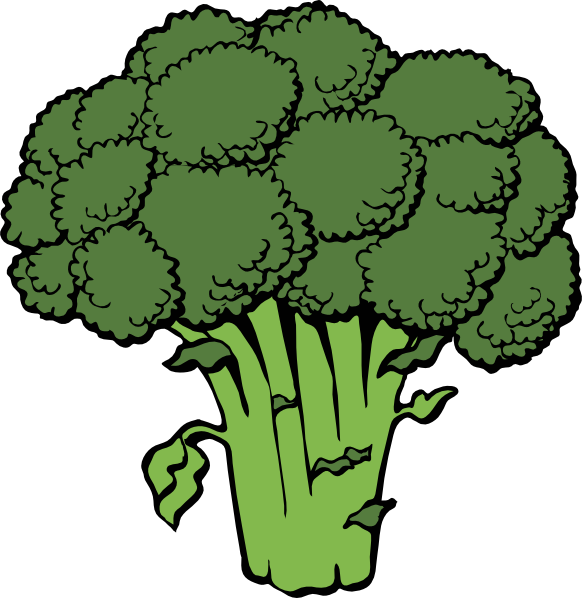
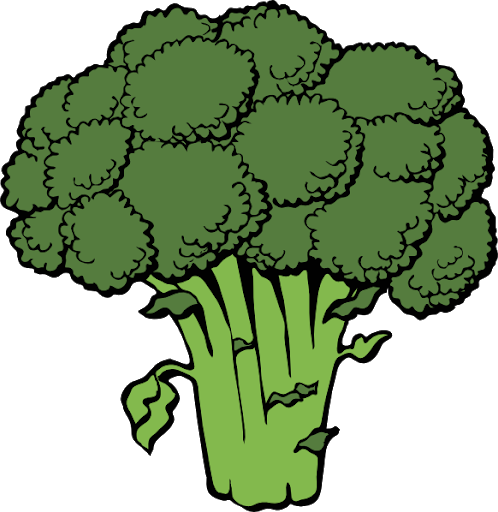
update 6 veg images complete

Changed region(s): [[0.994, 0.4062, 1.0, 0.4688], [0.753, 0.5625, 0.7831, 0.5938], [0.6325, 0.9062, 0.6627, 0.9375]]

diff --git a/main.js b/main.js
@@ -24,7 +24,10 @@ let item6 = document.getElementById('_Ginger');
 let item7 = document.getElementById('_Celery');
 let item8 = document.getElementById('_Garlic');
 let item9 = document.getElementById('_Carrot');
-let item10 = document.getElementById('_Beetroot');
+let item10 = document.getElementById('_Radish');
+let item11 = document.getElementById('_Zucchini');
+let item12 = document.getElementById('_Turnip');
+
 
 
 
@@ -55,7 +58,11 @@ let fruitImage22 = document.getElementById('Ginger');
 let fruitImage23 = document.getElementById('Celery');
 let fruitImage24 = document.getElementById('Garlic');
 let fruitImage25 = document.getElementById('Carrot');
-let fruitImage26 = document.getElementById('Beetroot');
+let fruitImage26 = document.getElementById('Radish');
+let fruitImage27 = document.getElementById('Zucchini');
+let fruitImage28 = document.getElementById('Turnip');
+
+
 
 
 let kids = document.getElementById('kids');
@@ -111,7 +118,7 @@ guessButton.onclick = function() {
 //switch function for Fruits  
 function guessFruit() { 
 
-const count = 26;
+const count = 28;
     
 let randFruit = Math.floor(Math.random() * count);    
 
@@ -1188,6 +1195,86 @@ let randFruit = Math.floor(Math.random() * count);
         } 
       }
      }
+     break;
+     case 26: 
+     groceries.src = fruitImage27.src;
+     groceries.style.width = "800px";
+     groceries.style.height = "750px";
+     groceries.style.marginBottom = "50px";
+     question.innerHTML = "..fruit or veg ?"; 
+          
+     if (currentlyPlaying && isClicked(guessButton)) {
+       guessButton.onclick = false;
+       document.getElementById('option_a');
+       guessButton.innerHTML = option_a.innerHTML;   
+        
+       if (item11.src === fruitImage27.src) {
+         guessFruit();
+        } else {  
+        option[2].onclick = function() {
+        click.play();
+        correct.play();
+        groceries.src = 'bee.gif';
+        groceries.style.marginTop = '0px';
+        guessButton.style.display = 'none';
+        nextButton.style.display = 'inline';
+        question.innerHTML = '<h3>RIGHT!!</h3>';
+        container.style.border = '180px ridge lime';
+        item11.src = fruitImage27.src;
+        gameOver();
+        } 
+        option[1].onclick = function() {
+        click.play();
+        wrong.play();
+        groceries.src = 'angry_bee.gif';
+        groceries.style.marginTop = '0px';
+        guessButton.style.display = 'none';
+        nextButton.style.display = 'inline';
+        question.innerHTML = '<h4>WRONG!!<h4>';
+        container.style.border = '180px groove #ff0000';
+        } 
+      }
+     }
+     break;
+     case 27: 
+     groceries.src = fruitImage28.src;
+     groceries.style.width = "800px";
+     groceries.style.height = "750px";
+     groceries.style.marginBottom = "50px";
+     question.innerHTML = "..fruit or veg ?"; 
+          
+     if (currentlyPlaying && isClicked(guessButton)) {
+       guessButton.onclick = false;
+       document.getElementById('option_a');
+       guessButton.innerHTML = option_a.innerHTML;   
+        
+       if (item12.src === fruitImage28.src) {
+         guessFruit();
+        } else {  
+        option[2].onclick = function() {
+        click.play();
+        correct.play();
+        groceries.src = 'bee.gif';
+        groceries.style.marginTop = '0px';
+        guessButton.style.display = 'none';
+        nextButton.style.display = 'inline';
+        question.innerHTML = '<h3>RIGHT!!</h3>';
+        container.style.border = '180px ridge lime';
+        item12.src = fruitImage28.src;
+        gameOver();
+        } 
+        option[1].onclick = function() {
+        click.play();
+        wrong.play();
+        groceries.src = 'angry_bee.gif';
+        groceries.style.marginTop = '0px';
+        guessButton.style.display = 'none';
+        nextButton.style.display = 'inline';
+        question.innerHTML = '<h4>WRONG!!<h4>';
+        container.style.border = '180px groove #ff0000';
+        } 
+      }
+     }
       
    }
         guessButton.style.border = 'none';
@@ -1228,7 +1315,7 @@ let randFruit = Math.floor(Math.random() * count);
 
   
 function gameOver() {
-  if (box1.src === fruitImage1.src && box2.src === fruitImage2.src && box3.src === fruitImage3.src && box4.src === fruitImage4.src && box5.src === fruitImage5.src && box6.src === fruitImage6.src && box7.src === fruitImage7.src && box8.src === fruitImage8.src && box9.src === fruitImage9.src && box10.src === fruitImage10.src && box11.src === fruitImage11.src && box12.src === fruitImage12.src && box13.src === fruitImage13.src && box14.src === fruitImage14.src && box15.src === fruitImage15.src && box16.src === fruitImage16.src) {
+  if (box1.src === fruitImage1.src && box2.src === fruitImage2.src && box3.src === fruitImage3.src && box4.src === fruitImage4.src && box5.src === fruitImage5.src && box6.src === fruitImage6.src && box7.src === fruitImage7.src && box8.src === fruitImage8.src && box9.src === fruitImage9.src && box10.src === fruitImage10.src && box11.src === fruitImage11.src && box12.src === fruitImage12.src && box13.src === fruitImage13.src && box14.src === fruitImage14.src && box15.src === fruitImage15.src && box16.src === fruitImage16.src && item1.src === fruitImage17.src && item2.src === fruitImage18.src && item3.src === fruitImage19.src && item4.src === fruitImage20.src && item5.src === fruitImage21.src && item6.src === fruitImage22.src && item7.src === fruitImage23.src && item8.src === fruitImage24.src && item9.src === fruitImage25.src && item10.src === fruitImage26.src && item11.src === fruitImage27.src && item12.src === fruitImage28.src) {
   
   youWin();
   currentlyPlaying = false;

diff --git a/index.html b/index.html
@@ -58,11 +58,13 @@
       <img src="mushroom.png" id="Mushrooms" class="image">
       <img src="broccoli.png" id="Broccoli" class="image">
       <img src="spinach.png" id="Spinach" class="image">
-      <img src="ginger1.png" id="Ginger" class="image">
+      <img src="ginger.png" id="Ginger" class="image">
       <img src="celery.png" id="Celery" class="image">
       <img src="garlic.png" id="Garlic" class="image">
       <img src="carrot.png" id="Carrot" class="image">
-      <img src="beetroot.png" id="Beetroot" class="image">
+      <img src="radish.png" id="Radish" class="image">
+      <img src="zucchini.png" id="Zucchini" class="image">
+      <img src="turnip.png" id="Turnip" class="image">
 
 
 
@@ -117,10 +119,9 @@
        <div class="vegetable"><img id ="_Celery" src=""></div>
        <div class="vegetable"><img id ="_Garlic" src=""></div>
        <div class="vegetable"><img id ="_Carrot" src=""></div>
-       <div class="vegetable"><img id ="_Beetroot" src=""></div>
-
-
-
+       <div class="vegetable"><img id ="_Radish" src=""></div>
+       <div class="vegetable"><img id ="_Zucchini" src=""></div>
+       <div class="vegetable"><img id ="_Turnip" src=""></div>
 
 
 

diff --git a/html/style.css b/html/style.css
@@ -273,7 +273,7 @@ h5 {
 .vegetables {
   height: auto; 
   padding: 50px; 
-  display: none;
+  display: flex;
   flex-wrap: wrap;
   font-family: cursive;
   justify-content: space-evenly;
